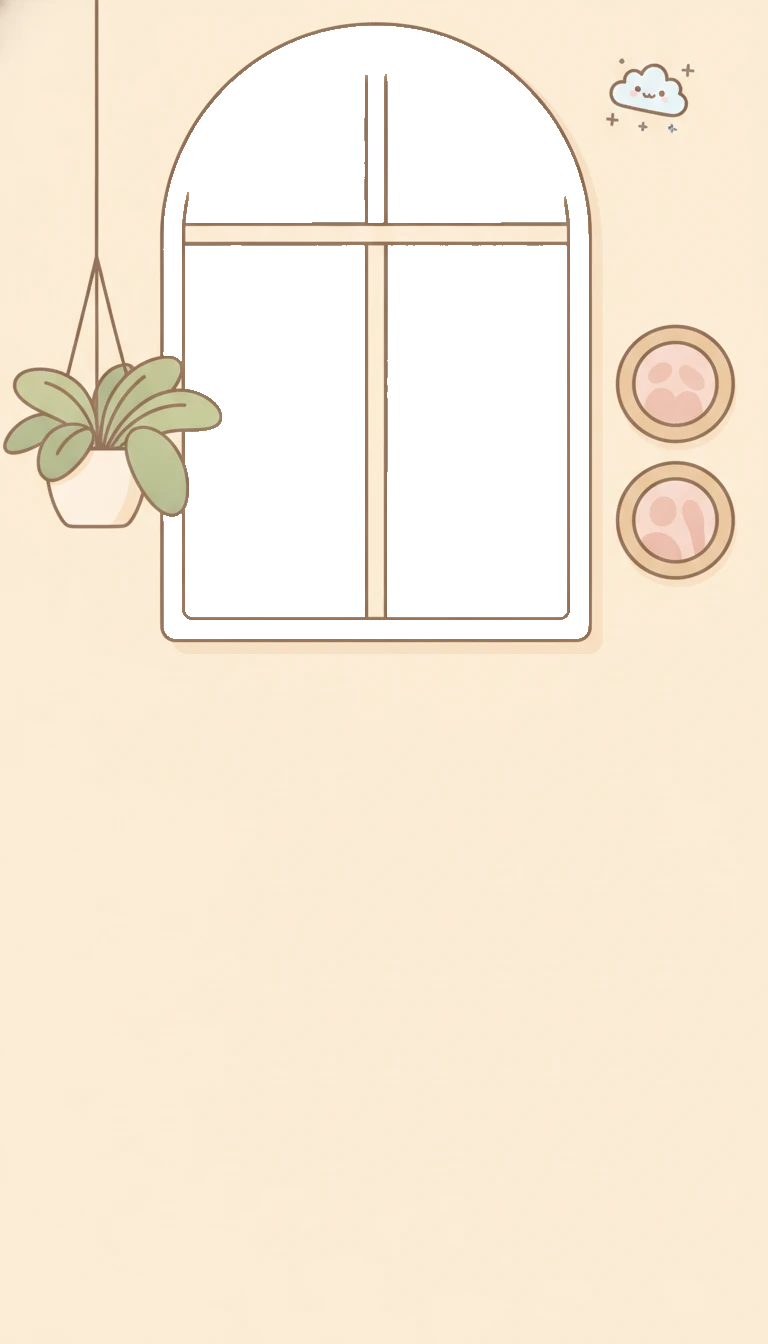
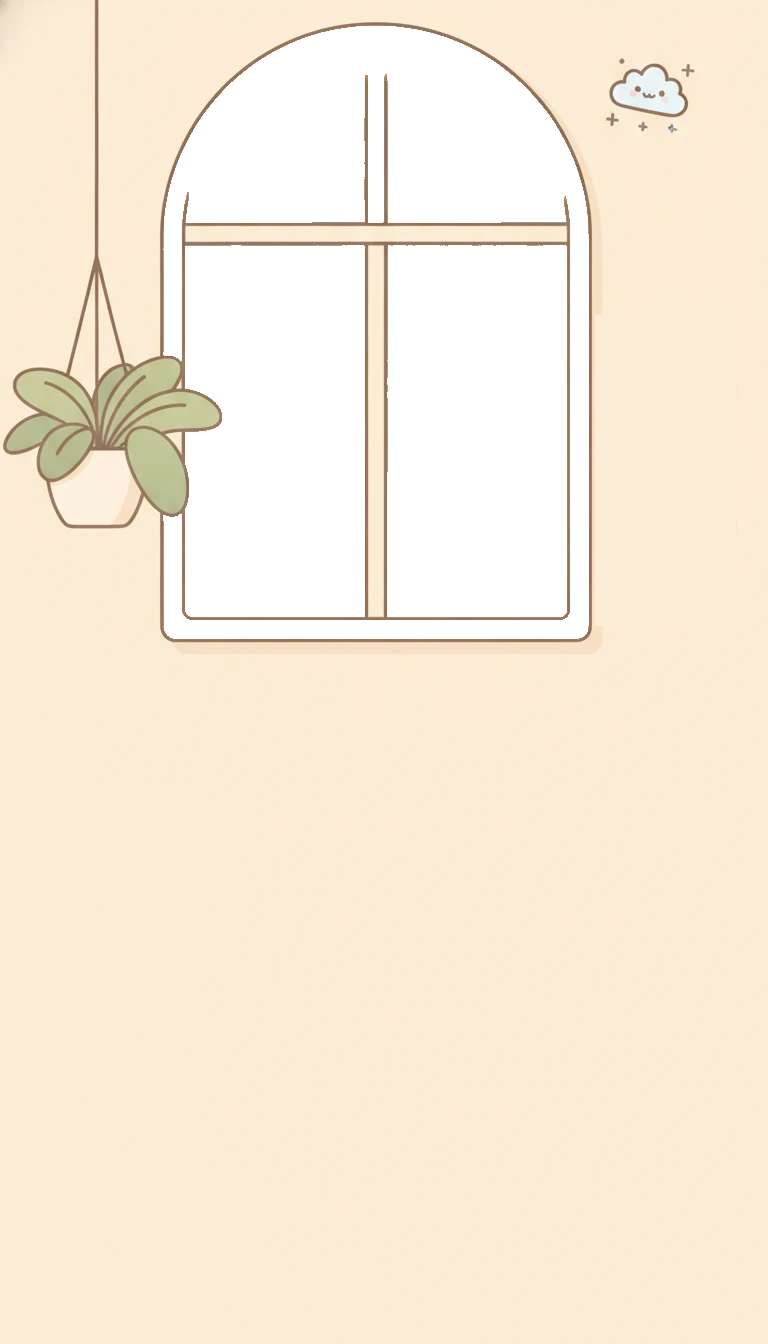
Audit-swarm batch: celebrate race, reward guard, hit targets, theme art
Opus audit fleet returned 12 confirmed findings; fixing them:

- HIGH celebrate/sleep race: onRewardDialogClose called celebrate() then
  startBreakOffer() synchronously, so wrap-celebrate keyframes (1.1s) +
  the scene .celebrating burst (1.5s) kept playing on the mascot AFTER
  he was placed in bed and set to sleeping. Napping pearl bounced and
  rotated inside the duvet for over a second and treat particles rained
  across the mattress. startBreakOffer now clears .celebrate on the wrap
  and .celebrating on the scene before setMakerState fires.
- HIGH showReward(missing partner) threw: renderRewardPartner did
  reward.partner.startsWith without guarding for undefined; whole dialog
  dead-ended. Added defensive default to ''.
- HIGH landing skins mismatch: badge + section headline promised 14 chars,
  grid rendered 8. Generated the 5 missing skin thumbnails from the idle
  pose PNGs (grad-cap, scarf, astro-blue, cat-hoodie, devil) and expanded
  the landing grid to all 14.
- MED rainy theme: cream + green picture frames were baked into the
  window pane at a low position; counter cut them in half so only the top
  ~40% showed as a floating rectangle next to the cup. Painted them out
  in Shop Background Rainy.png with the sampled glass color.
- MED winter theme: two pale-pink discs baked into bg-winter-front.webp
  right side rendered as unfinished pinkish rings. Painted out with the
  sampled wall color.
[…]

Changed region(s): [[0.7812, 0.2188, 0.9688, 0.4375]]

diff --git a/index.html b/index.html
@@ -106,6 +106,14 @@
     .badge{display:inline-flex;align-items:center;gap:8px;background:var(--card);border:1.5px solid var(--line);
       border-radius:999px;padding:9px 16px;font-weight:700;font-size:.9rem;box-shadow:var(--lift)}
     .badge .dot{width:9px;height:9px;border-radius:50%}
+    /* On phone the three badges stacked into three rows separated by ~200px
+       of empty cream. Keep them on one row (or two if truly needed) with
+       tighter type and pill padding so they read as a compact strip. */
+    @media (max-width:640px){
+      .badges{gap:8px;padding:6px 12px 4px;flex-wrap:wrap;justify-content:center}
+      .badge{font-size:.78rem;padding:7px 12px;gap:6px}
+      .badge .dot{width:7px;height:7px}
+    }
 
     /* ── section scaffolding ── */
     section.block{padding:46px 0}
@@ -200,7 +208,7 @@
       <div class="hcopy">
         <div class="eyebrow">A cozy focus timer for students</div>
         <h1>Study. Brew <span class="swirl">boba.</span> Lock out the scroll.</h1>
-        <p class="lede">A cozy timer that actually keeps you off distracting apps. On iPhone it locks the ones you pick behind Apple's Screen Time until your session ends, while a little tapioca-pearl mascot brews your boba. Finish, and the drink is yours to keep.</p>
+        <p class="lede">A cozy focus timer that locks distracting apps while a boba mascot brews your drink. Finish, keep the drink.</p>
         <div class="actions">
           <a class="cta" href="https://apps.apple.com/app/id6786023560">
             <svg class="apple" viewBox="0 0 24 24"><path d="M16.36 12.7c.02 2.62 2.3 3.49 2.33 3.5-.02.06-.36 1.24-1.2 2.46-.72 1.05-1.47 2.1-2.66 2.12-1.16.03-1.54-.68-2.87-.68-1.33 0-1.75.66-2.85.71-1.14.04-2.01-1.14-2.74-2.19-1.49-2.15-2.63-6.08-1.1-8.73.76-1.32 2.12-2.15 3.6-2.18 1.12-.02 2.18.75 2.87.75.68 0 1.97-.93 3.32-.79.57.02 2.16.23 3.18 1.73-.08.05-1.9 1.11-1.88 3.32M14.2 4.9c.61-.74 1.02-1.77.9-2.8-.88.04-1.94.59-2.57 1.33-.56.65-1.06 1.7-.93 2.7.98.08 1.98-.5 2.6-1.23"/></svg>
@@ -266,13 +274,19 @@
     </div>
     <div class="skins">
       <div class="skin"><img src="assets/landing/skin-base.png" alt="Classic pearl character"><span>Classic</span></div>
-      <div class="skin"><img src="assets/landing/skin-angel.png" alt="Angel character"><span>Angel</span></div>
-      <div class="skin"><img src="assets/landing/skin-ninja.png" alt="Ninja character"><span>Ninja</span></div>
-      <div class="skin"><img src="assets/landing/skin-wizard.png" alt="Wizard character"><span>Wizard</span></div>
-      <div class="skin"><img src="assets/landing/skin-dragon.png" alt="Dragon character"><span>Dragon</span></div>
-      <div class="skin"><img src="assets/landing/skin-royal.png" alt="Royal character"><span>Royal</span></div>
-      <div class="skin"><img src="assets/landing/skin-strawberry.png" alt="Strawberry character"><span>Strawberry</span></div>
+      <div class="skin"><img src="assets/landing/skin-grad-cap.png" alt="Graduation cap character"><span>Grad</span></div>
       <div class="skin"><img src="assets/landing/skin-flower.png" alt="Flower character"><span>Flower</span></div>
+      <div class="skin"><img src="assets/landing/skin-scarf.png" alt="Scarf character"><span>Scarf</span></div>
+      <div class="skin"><img src="assets/landing/skin-shades.png" alt="Shades character"><span>Shades</span></div>
+      <div class="skin"><img src="assets/landing/skin-strawberry.png" alt="Strawberry character"><span>Strawberry</span></div>
+      <div class="skin"><img src="assets/landing/skin-astro-blue.png" alt="Astronaut character"><span>Astro</span></div>
+      <div class="skin"><img src="assets/landing/skin-dragon.png" alt="Dragon character"><span>Dragon</span></div>
+      <div class="skin"><img src="assets/landing/skin-cat-hoodie.png" alt="Cat hoodie character"><span>Cat</span></div>
+      <div class="skin"><img src="assets/landing/skin-royal.png" alt="Royal character"><span>Royal</span></div>
+      <div class="skin"><img src="assets/landing/skin-ninja.png" alt="Ninja character"><span>Ninja</span></div>
+      <div class="skin"><img src="assets/landing/skin-angel.png" alt="Angel character"><span>Angel</span></div>
+      <div class="skin"><img src="assets/landing/skin-devil.png" alt="Devil character"><span>Devil</span></div>
+      <div class="skin"><img src="assets/landing/skin-wizard.png" alt="Wizard character"><span>Wizard</span></div>
     </div>
   </section>
 

diff --git a/styles.css b/styles.css
@@ -2049,7 +2049,7 @@ body {
 }
 
 .adj-btn.small-adj {
-  width: 40px; height: 40px;
+  width: 44px; height: 44px;
   font-size: 1.2rem;
   border-width: 2px;
 }
@@ -3012,16 +3012,22 @@ button.option-row { width: 100%; font: inherit; text-align: left; cursor: pointe
 .onboard-actions {
   display: flex;
   gap: 10px;
-  align-items: center;
+  align-items: stretch;   /* both buttons match Next's height, not center-offset */
 }
 .onboard-next { flex: 1; }
 .onboard-back {
-  min-width: 76px;
+  min-width: 96px;
+  /* Match the primary Next button's minimum height so Back doesn't look
+     squished under a taller neighbor and their centers actually align. */
+  min-height: 56px;
 }
 .onboard-back.hidden { display: none; }
 
 .settings-action-btn {
-  min-height: 34px;
+  /* Own the visible 44px hit floor — the shared ::after expander at the top of
+     this file grows the tap zone but the visible rect stayed 34px, so a list
+     of five row-buttons had overlapping tap zones under the 44px rule. */
+  min-height: 44px;
   padding: 0 16px;
   border: 2px solid var(--teal);
   border-radius: 999px;
@@ -3114,7 +3120,8 @@ button.option-row { width: 100%; font: inherit; text-align: left; cursor: pointe
 .map-retry {
   border: none;
   border-radius: 999px;
-  padding: 8px 18px;
+  min-height: 44px;
+  padding: 8px 20px;
   background: var(--bark);
   color: #fff;
   font: inherit;
@@ -3503,8 +3510,8 @@ button.option-row { width: 100%; font: inherit; text-align: left; cursor: pointe
 }
 
 .shop-buy-btn {
-  min-height: 32px;
-  padding: 0 12px;
+  min-height: 40px;
+  padding: 0 14px;
   border: 2px solid var(--bark);
   border-radius: 999px;
   background: var(--bark);
@@ -3531,8 +3538,8 @@ button.option-row { width: 100%; font: inherit; text-align: left; cursor: pointe
 .shop-buy-btn:disabled { opacity: 0.36; cursor: not-allowed; box-shadow: none; }
 
 .shop-equip-btn {
-  min-height: 32px;
-  padding: 0 12px;
+  min-height: 40px;
+  padding: 0 14px;
   border: 2px solid var(--teal);
   border-radius: 999px;
   background: var(--mint);
@@ -3564,8 +3571,8 @@ button.option-row { width: 100%; font: inherit; text-align: left; cursor: pointe
 }
 
 .shop-preview-btn {
-  min-height: 32px;
-  padding: 0 12px;
+  min-height: 40px;
+  padding: 0 14px;
   border: 2px solid var(--gold);
   border-radius: 999px;
   background: #fff4cf;
@@ -4298,7 +4305,8 @@ dialog[open] .reward-confetti span:nth-child(7) { animation-delay: 0.02s; }
 }
 .squad-mycode-label { font-size: 0.76rem; font-weight: 850; color: var(--bark-mid); }
 .squad-mycode-value {
-  border: none; background: none; padding: 4px 6px;
+  border: none; background: none; padding: 10px 8px;
+  min-height: 44px;   /* it's the only tap target on the row */
   font-size: 1.15rem; font-weight: 950; letter-spacing: 0.16em;
   color: var(--bark); font-variant-numeric: tabular-nums;
 }

diff --git a/app.js b/app.js
@@ -3139,10 +3139,14 @@ function maybeRequestReview() {
 }
 
 function renderRewardPartner(reward) {
-  els.partnerReward.textContent = reward.partner;
+  // reward.partner can legitimately be missing (short drinks under the perk
+  // floor never get one; test/mock callers may omit it). Empty string means
+  // "no perk row"; treating undefined as a crash killed the entire dialog.
+  const partner = (reward && typeof reward.partner === "string") ? reward.partner : "";
+  els.partnerReward.textContent = partner;
   // Three states, not two: an earned perk reads as a coupon, a not-yet perk
   // reads as a quiet next-goal line, and neither reads as an empty slot.
-  const earned = reward.partner.startsWith("🌟");
+  const earned = partner.startsWith("🌟");
   els.partnerReward.classList.toggle("has-perk", earned);
   els.partnerReward.classList.toggle("is-next", !earned);
 
@@ -3187,6 +3191,14 @@ function onRewardDialogClose() {
 function startBreakOffer() {
   state.phase = "break-offer";
   els.shopScene.classList.add("is-on-break");
+  // celebrate() ran just before us (onRewardDialogClose) and armed a 1.2s
+  // wrap-celebrate + 1.5s scene .celebrating burst. The class flip to
+  // is-on-break kills the wrap's transition and snaps him into bed, but
+  // the running keyframes DO NOT clear — so the sleeping mascot bounced
+  // and rotated for over a second inside the duvet, and treat particles
+  // rained across the mattress. Stop both here, before setMakerState fires.
+  els.makerWrap.classList.remove("celebrate");
+  els.shopScene.classList.remove("celebrating");
   // He just finished a session AT THE CUP, so --walk still holds the mixing
   // offset. The bed is centred; without this reset he lay in it shifted a full
   // walk-width to the right. Zeroed AFTER the class lands so the break-mode

diff --git a/sw.js b/sw.js
@@ -7,7 +7,7 @@
 // and every user silently keeps the OLD cache — updates stop shipping with no
 // error anywhere. That happened: assets/Bed.png was deleted and left listed
 // here, which pinned clients to pre-rebuild art. tools/check-shell.py guards it.
-const CACHE = "mr-tapioca-v209";
+const CACHE = "mr-tapioca-v210";
 
 // Focus-tune audio lives in its OWN cache, on purpose, and is deliberately NOT
 // in SHELL below. Two reasons, both learned the hard way:
